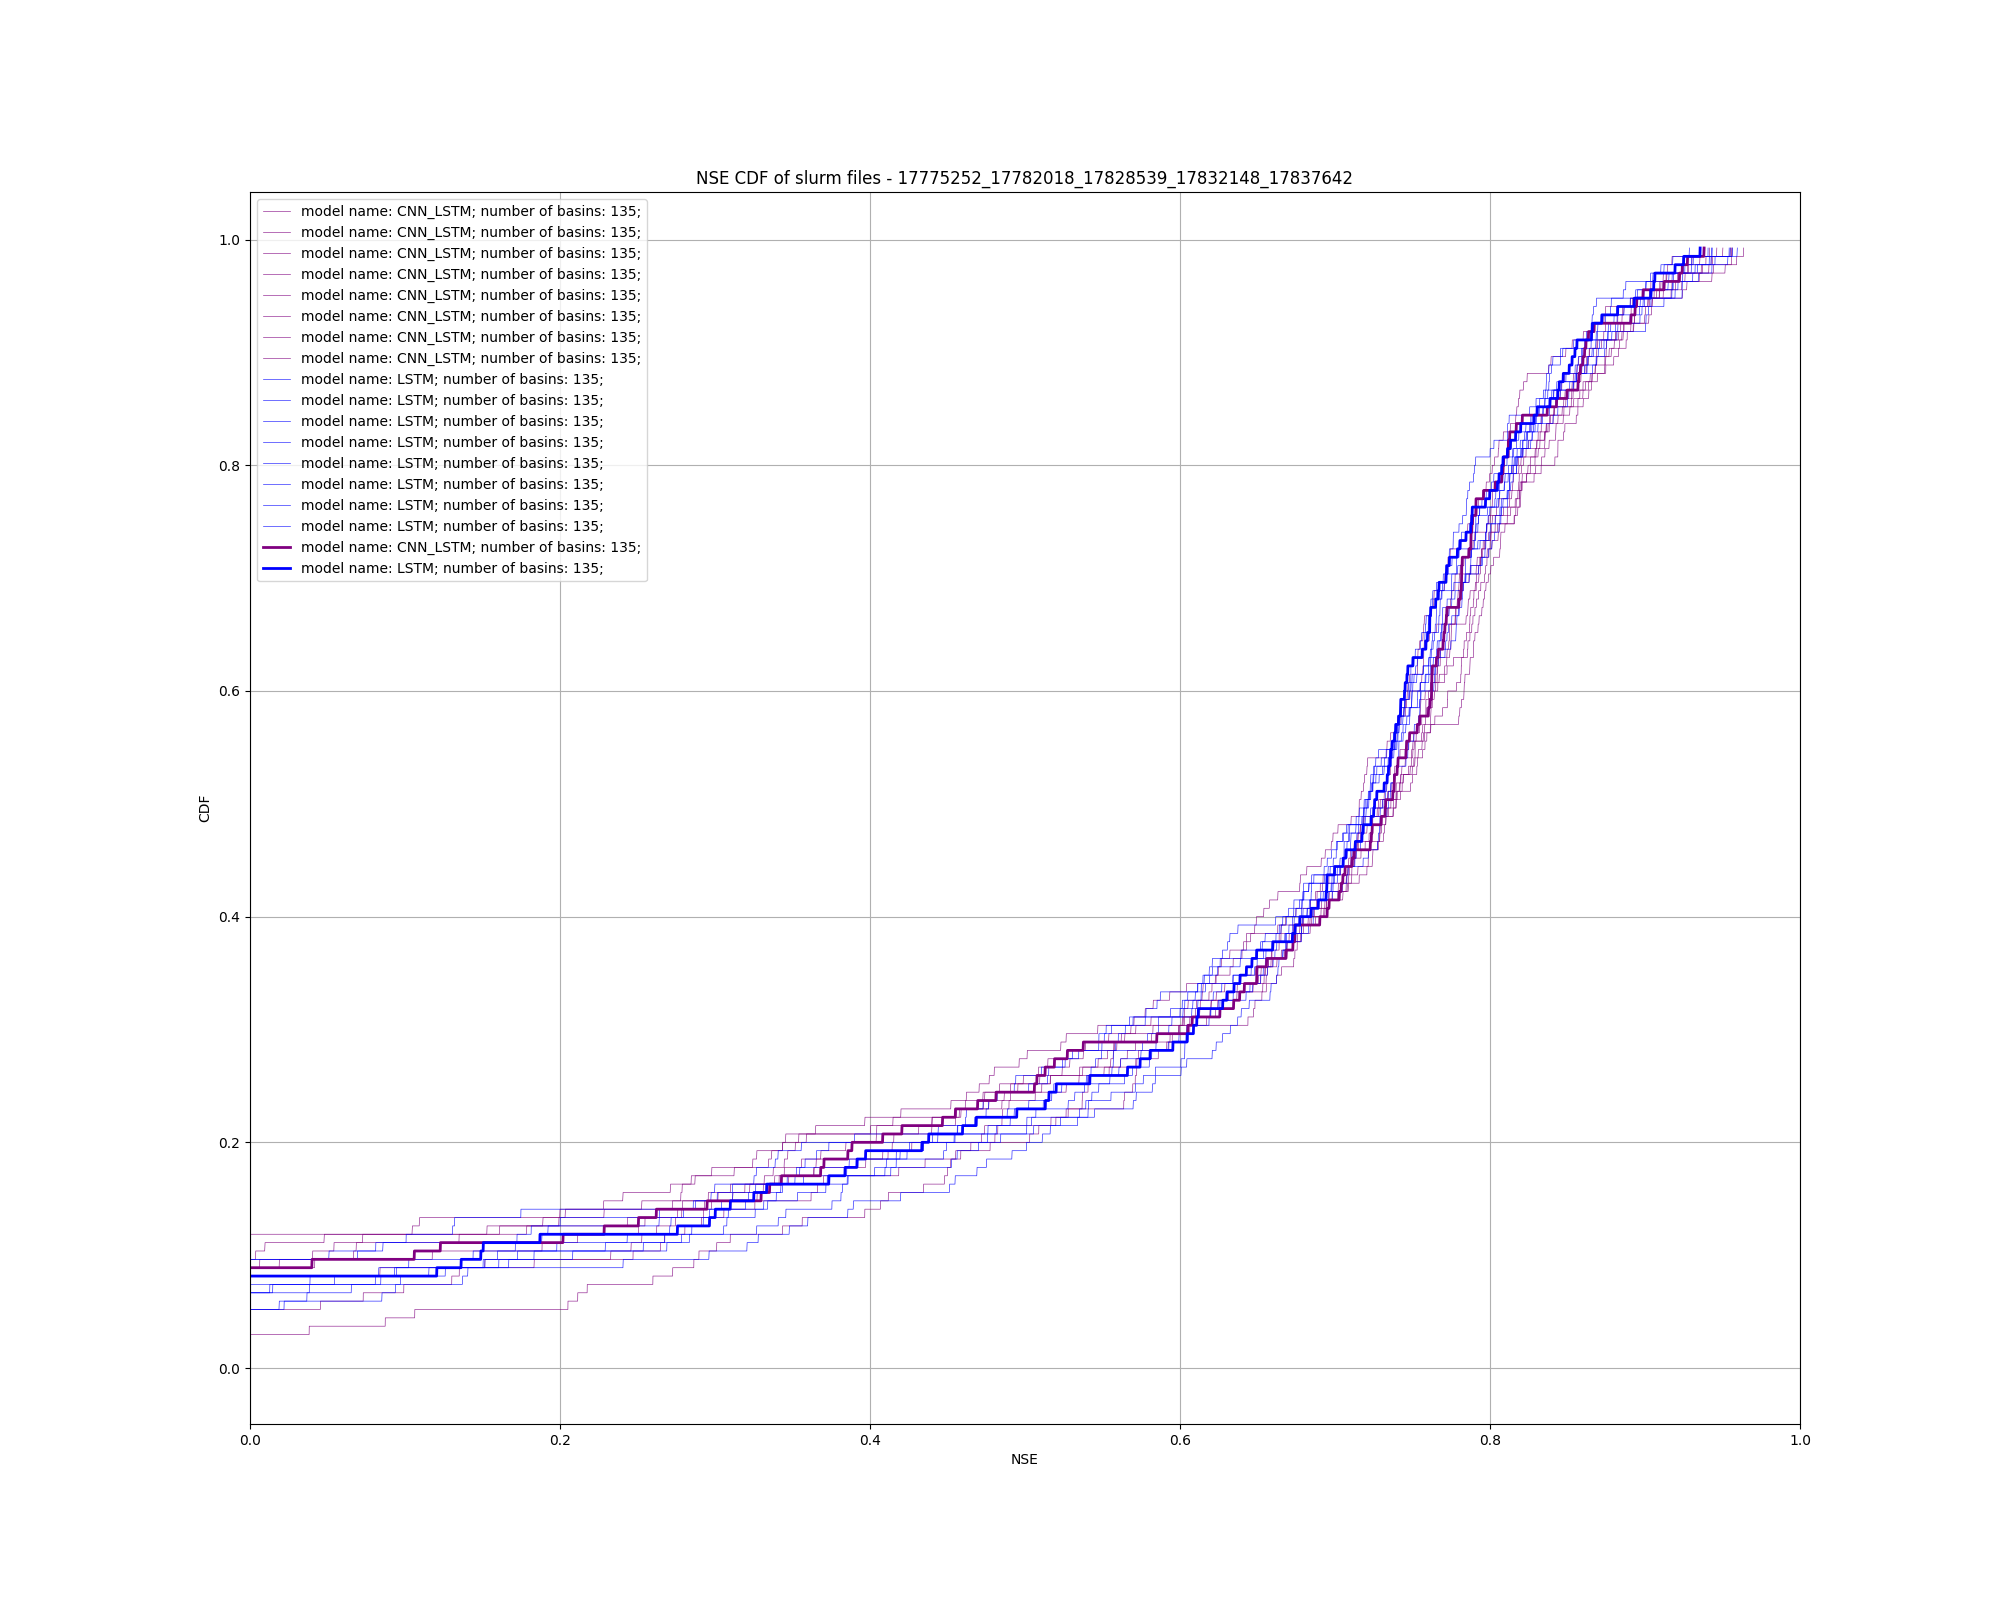
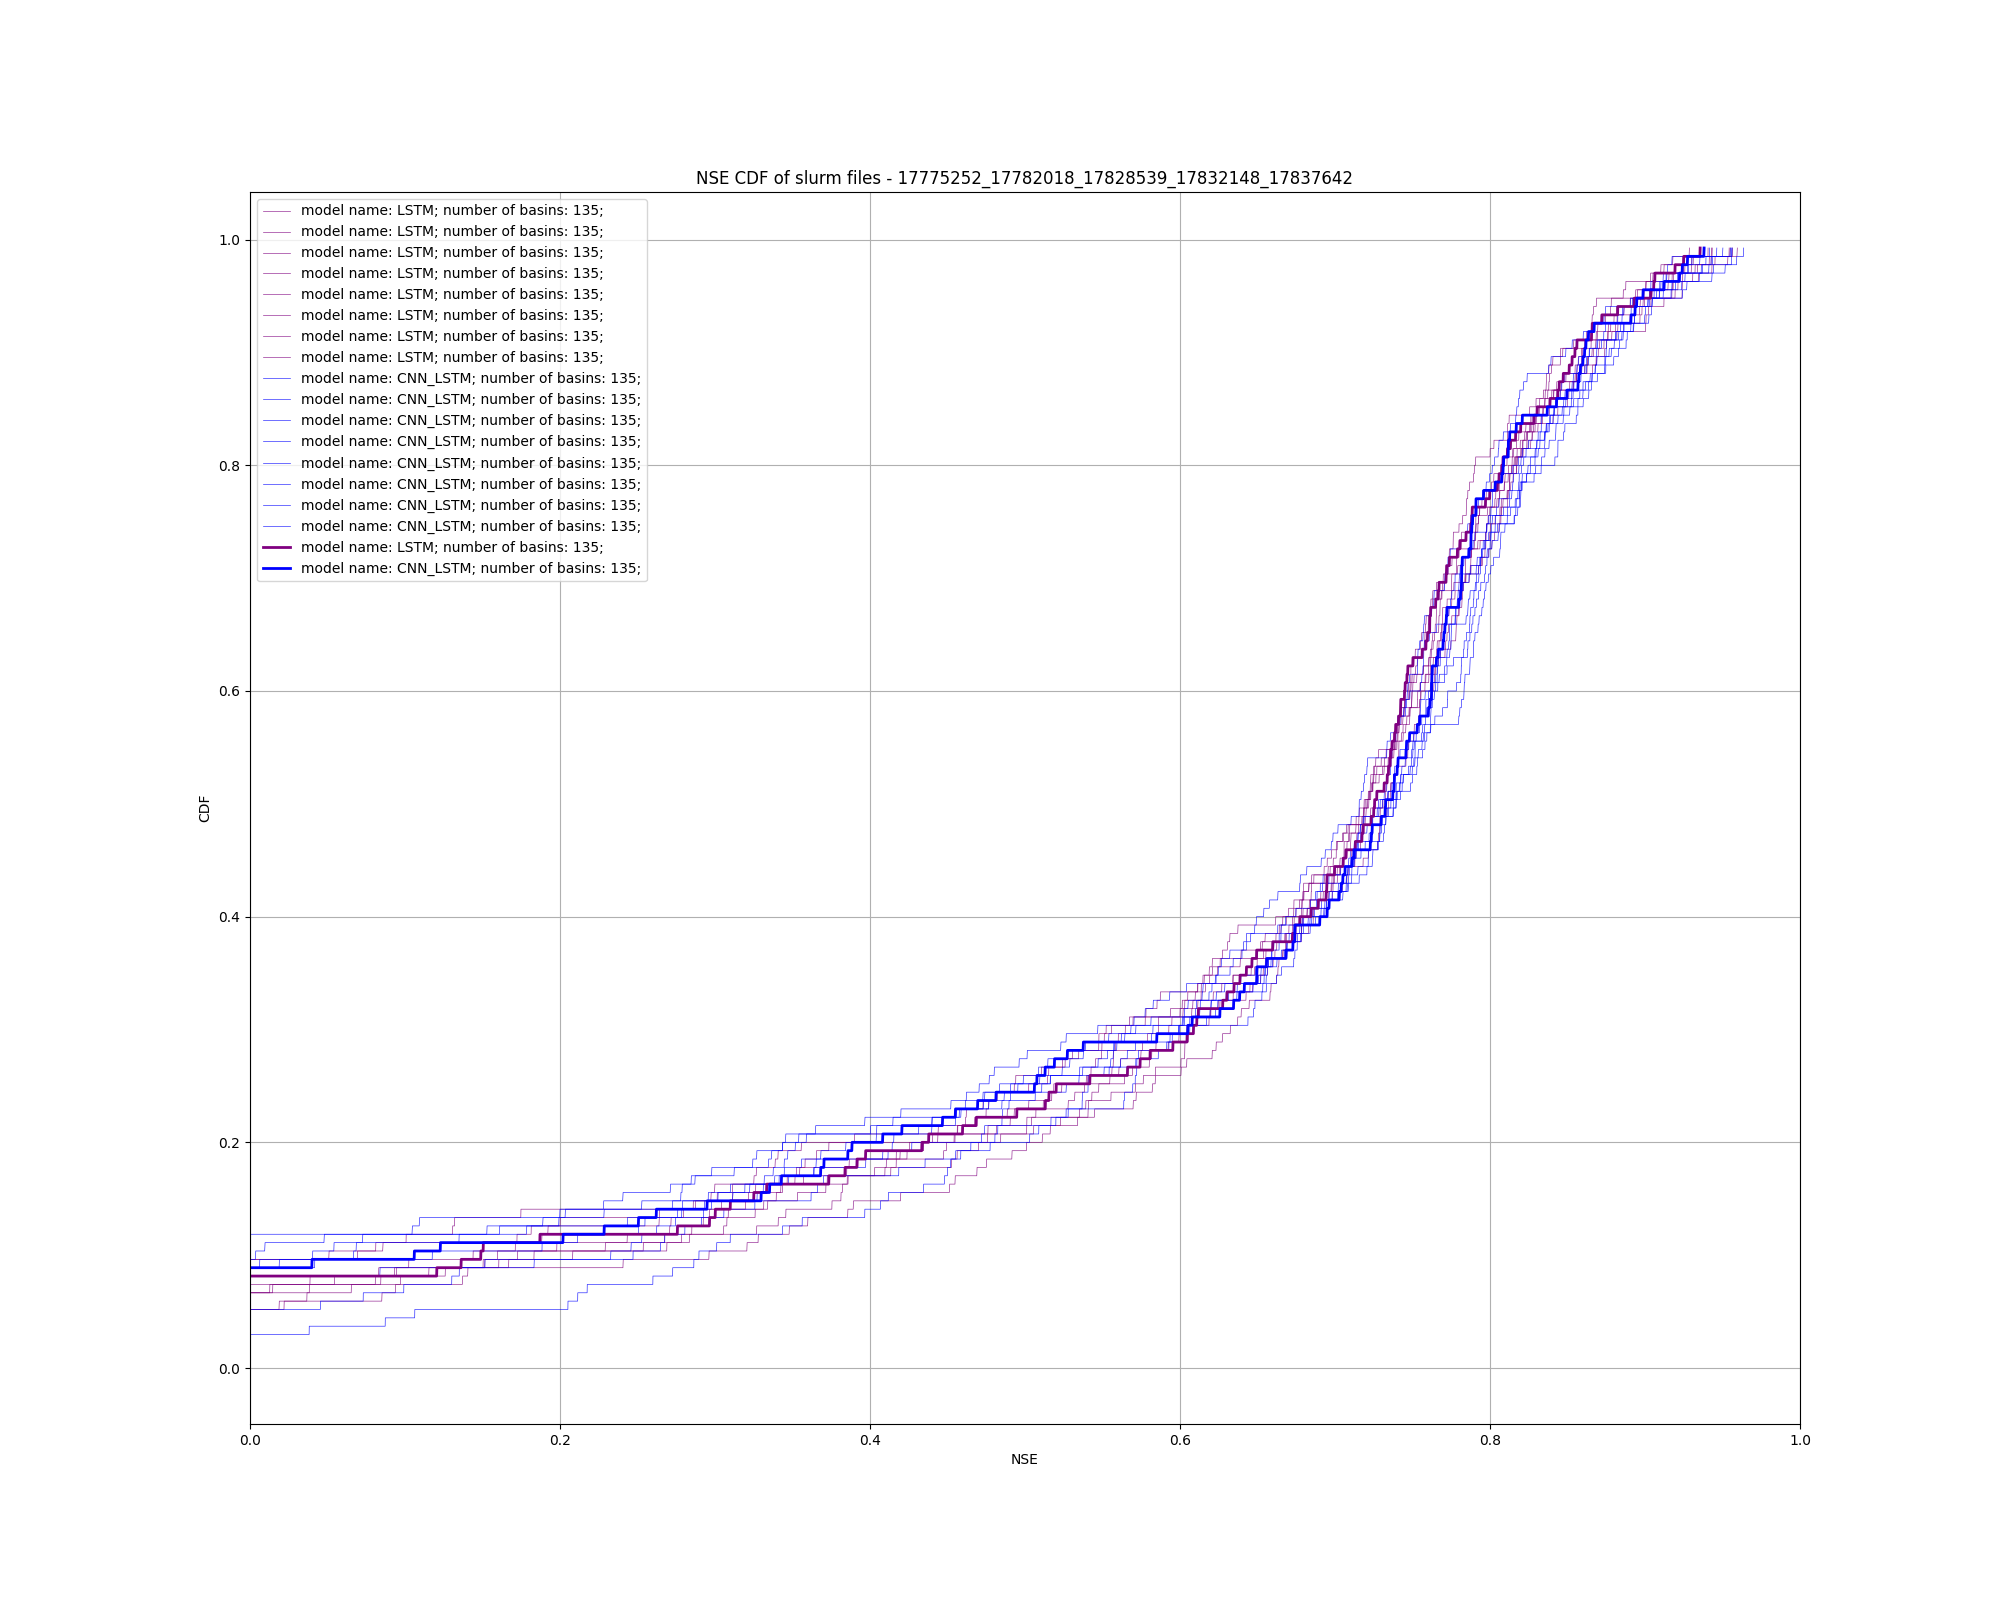
changing Transformer CNN config file

Changed region(s): [[0.372, 0.1562, 0.868, 0.75], [0.155, 0.125, 0.31, 0.375], [0.124, 0.75, 0.372, 0.8125]]

diff --git a/src/create_CDF_NSE_comparison_plot_from_slurm_output.py b/src/create_CDF_NSE_comparison_plot_from_slurm_output.py
@@ -219,17 +219,19 @@ def plot_NSE_CDF_graph_frederik_code():
 def plot_CDF_NSE_basins(nse_losses_np, params_tuple, model_name, num_basins, plot_color, plot_opacity, line_width):
     # taken from https://stackoverflow.com/questions/15408371/cumulative-distribution-plots-python
     # evaluate the histogram
-    values, base = np.histogram(nse_losses_np, bins=100000)
-    # evaluate the cumulative
-    cumulative = np.cumsum(values)
-    cumulative = (cumulative - np.min(cumulative)) / np.max(cumulative)
-    # plt.xscale("symlog")
-    plt.xlim((0, 1))
-    plt.xlabel("NSE")
-    plt.ylabel("CDF")
-    plt.plot(base[:-1], cumulative, color=plot_color, alpha=plot_opacity, linewidth=line_width,
-             label=f"model name: {model_name}; number of basins: {num_basins};")
-    # f" params_tuple:{json.dumps(dict(params_tuple), indent=4)}")
+    # values, base = np.histogram(nse_losses_np, bins=100000)
+    # # evaluate the cumulative
+    # cumulative = np.cumsum(values)
+    # cumulative = (cumulative - np.min(cumulative)) / np.max(cumulative)
+    # # plt.xscale("symlog")
+    # plt.xlim((0, 1))
+    # plt.xlabel("NSE")
+    # plt.ylabel("CDF")
+    # plt.plot(base[:-1], cumulative, color=plot_color, alpha=plot_opacity, linewidth=line_width,
+    #          label=f"model name: {model_name}; number of basins: {num_basins};")
+    plt.hist(nse_losses_np, bins=100000, density=True, cumulative=True,
+             label=f"model name: {model_name}; number of basins: {num_basins};",
+             histtype='step', alpha=plot_opacity, color=plot_color, linewidth=line_width)
 
 
 def main():
